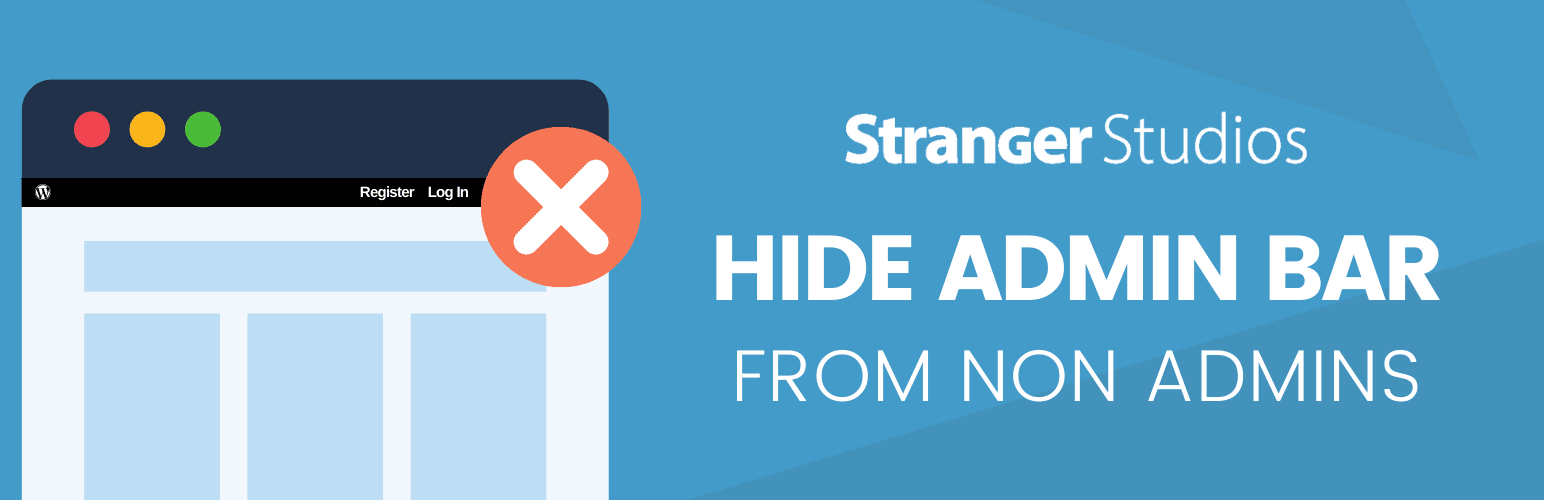
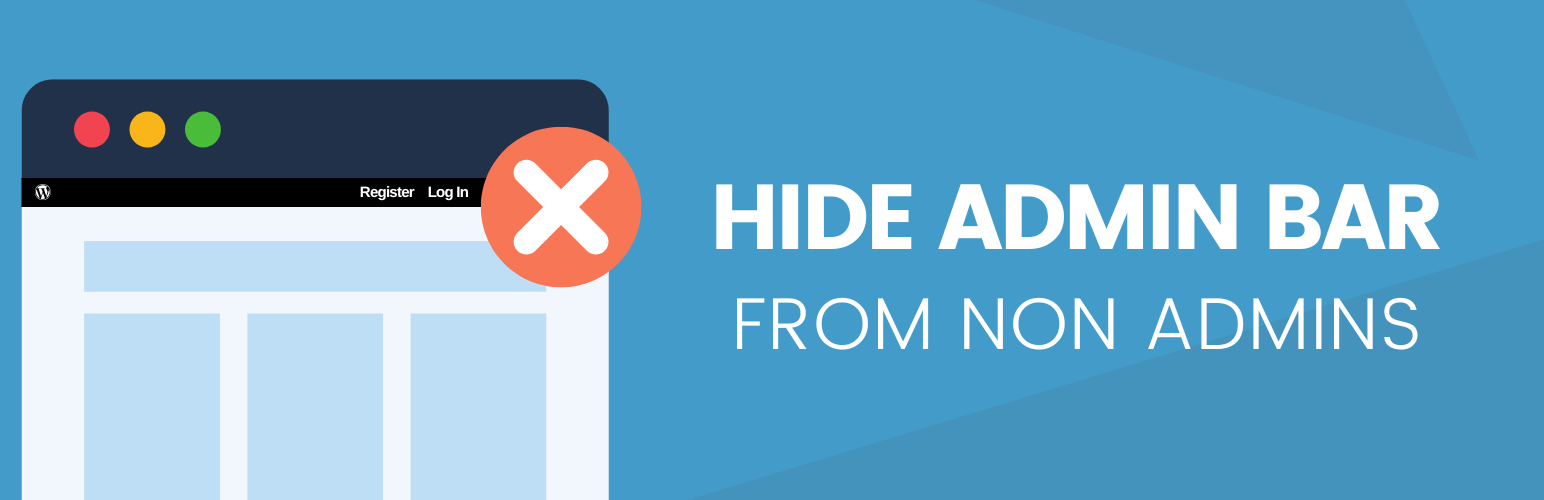
Cleaning this up for putting up for adoption

Changed region(s): [[0.4663, 0.36, 0.9326, 0.81], [0.5285, 0.21, 0.8705, 0.33]]

diff --git a/hide-admin-bar-from-non-admins.php b/hide-admin-bar-from-non-admins.php
@@ -1,17 +1,10 @@
 <?php
 /*
 Plugin Name: Hide Admin Bar From Non-Admins
-Plugin URI: https://www.paidmembershipspro.com/add-ons/hide-admin-bar-from-non-admins/
 Description: Hides the WordPress toolbar (admin bar) for all non-admin users.
 Version: 1.0.1
-Author: Stranger Studios
-Author URI: https://www.strangerstudios.com
+Author: Contributors
 */
-/*
-	Copyright 2013	Stranger Studios	(email : jason@strangerstudios.com)
-	Licensed under the GPLv2 license: http://www.gnu.org/licenses/gpl-2.0.html
-*/
-
 function habfna_show_admin_bar() {
 	$user = wp_get_current_user();
 	$habfna_show_admin_bar_roles = apply_filters( 'habfna_show_admin_bar_roles', array( 'administrator' ) );
